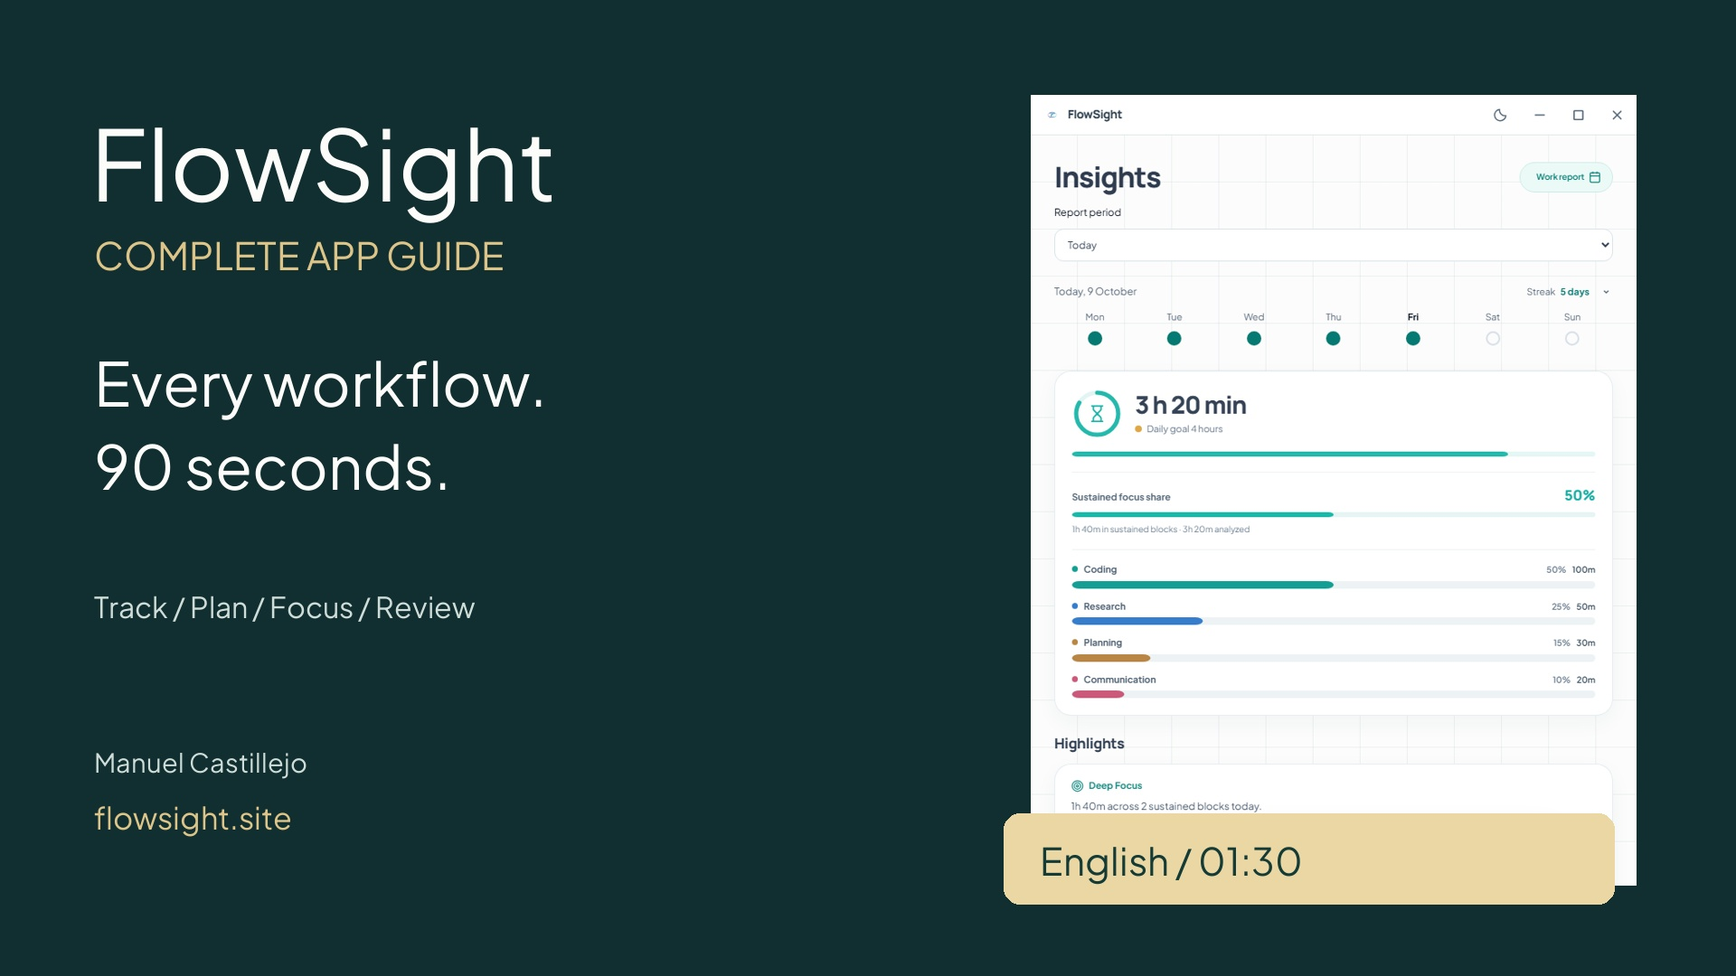
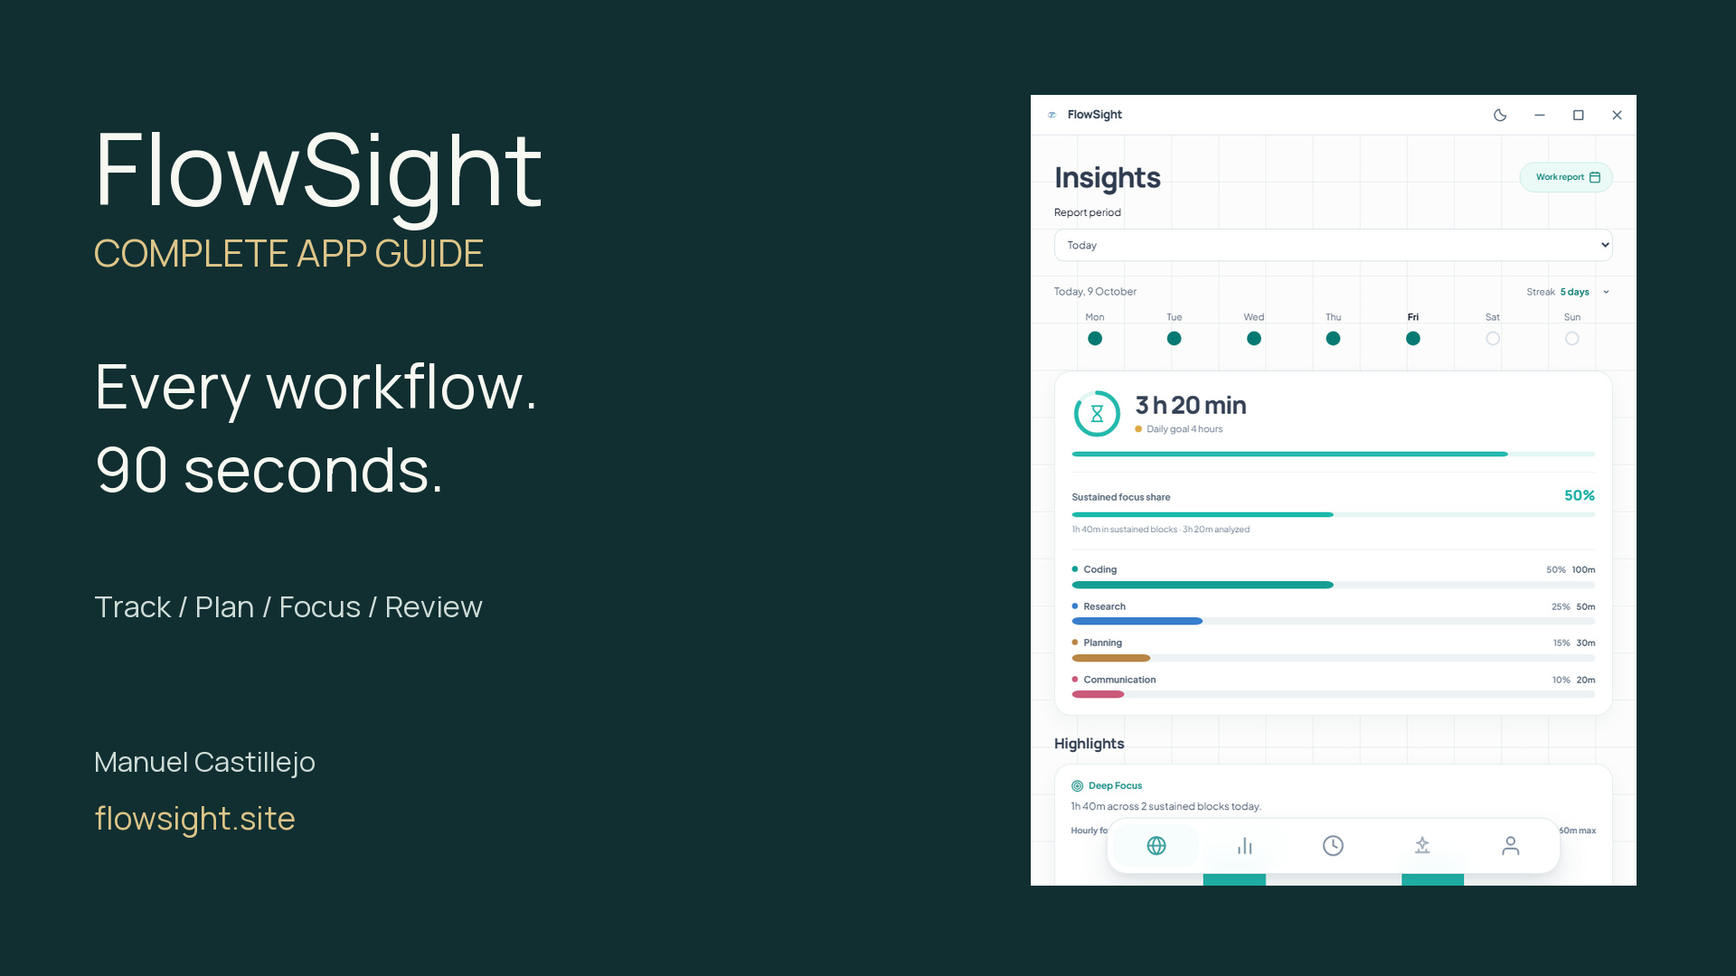
Remove language and duration badge from the guide thumbnail

diff --git a/app-guide/index.html b/app-guide/index.html
@@ -1,1 +1,1 @@
-<!doctype html><html lang="en"><head><meta charset="utf-8"><meta name="viewport" content="width=device-width,initial-scale=1"><title>FlowSight Complete App Guide in 90 Seconds | Manuel Castillejo</title><meta name="description" content="Watch the English FlowSight app guide by Manuel Castillejo: Clock, Pomodoro, local AI planning, Total Focus, Insights, reports, Coach, MCP, privacy and friend leagues."><meta name="author" content="Manuel Castillejo"><meta name="robots" content="index,follow,max-image-preview:large,max-video-preview:-1"><link rel="canonical" href="https://mancasvel.github.io/flowsight-guides/app-guide/"><link rel="stylesheet" href="../assets/style.css"><link rel="icon" href="../assets/icon.png"><meta property="og:type" content="video.other"><meta property="og:title" content="FlowSight Complete App Guide in 90 Seconds"><meta property="og:description" content="Watch the English FlowSight app guide by Manuel Castillejo: Clock, Pomodoro, local AI planning, Total Focus, Insights, reports, Coach, MCP, privacy and friend leagues."><meta property="og:url" content="https://mancasvel.github.io/flowsight-guides/app-guide/"><meta property="og:image" content="https://mancasvel.github.io/flowsight-guides/assets/complete-guide/thumbnail.jpg"><meta name="twitter:card" content="summary_large_image"><meta name="twitter:site" content="@flowsight_ai"><script type="application/ld+json">{"@context":"https://schema.org","@graph":[{"@type":"WebPage","@id":"https://mancasvel.github.io/flowsight-guides/app-guide/#page","url":"https://mancasvel.github.io/flowsight-guides/app-guide/","name":"FlowSight Complete App Guide in 90 Seconds","description":"Watch the English FlowSight app guide by Manuel Castillejo: Clock, Pomodoro, local AI planning, Total Focus, Insights, reports, Coach, MCP, privacy and friend leagues.","inLanguage":"en","mainEntity":{"@id":"https://mancasvel.github.io/flowsight-guides/app-guide/#video"},"author":{"@type":"Person","name":"Manuel Castillejo","url":"https://flowsight.site/manuel-castillejo"}},{"@type":"VideoObject","@id":"https://mancasvel.github.io/flowsight-guides/app-guide/#video","name":"FlowSight Complete App Guide in 90 Seconds","description":"Watch the English FlowSight app guide by Manuel Castillejo: Clock, Pomodoro, local AI planning, Total Focus, Insights, reports, Coach, MCP, privacy and friend leagues.","thumbnailUrl":"https://mancasvel.github.io/flowsight-guides/assets/complete-guide/thumbnail.jpg","uploadDate":"2026-10-11T14:15:00Z","duration":"PT1M30S","contentUrl":"https://mancasvel.github.io/flowsight-guides/assets/complete-guide/FlowSight-Complete-Guide-EN.mp4","inLanguage":"en","creator":{"@type":"Person","name":"Manuel Castillejo","url":"https://flowsight.site/manuel-castillejo"},"publisher":{"@type":"Organization","name":"FlowSight","url":"https://flowsight.site","sameAs":["https://x.com/flowsight_ai"]},"transcript":"FlowSight, by Manuel Castillejo. Your app in ninety seconds. Name a task, set your goal, and track time. Choose normal timing or Pomodoro, then adjust work and breaks. Describe tasks and available time. Local AI proposes blocks. Adjust your plan, then confirm before adding it. Pair the extension for Total Focus. Choose blocked sites, exceptions and duration, with optional notification quieting. Review recorded time, categories, your timeline, focus and browsing patterns. Local analysis adds context; you decide what it means. Review work reports and export PDFs. Schedule weekly saves, record decisions, and set a date to review them. Optional Cloud adds Coach, selected team summaries and Google or Microsoft calendars. Check permissions and your plan. Link Jira or Linear with an eligible plan. Configure calendars for recaps. Notion publishing is currently unavailable. Manage tasks, local calendar blocks, drafts, browsing and memory. Confirm changes; connect AI through read-only MCP. Control sync, AI, analytics, exclusions and retention. Export or erase data. External AI gets reports you request. Join private leagues for focus points. Work details stay private. Adjust startup, tray, language, theme and updates. Explore FlowSight at flowsight dot site. Built by Manuel Castillejo."}]}</script><style>main{max-width:1120px}.video-player{display:block;width:100%;aspect-ratio:16/9;background:#112e31;border-radius:16px;margin:30px 0}.transcript{max-width:760px}.chapters{display:grid;grid-template-columns:1fr 1fr;gap:8px 24px;padding-left:24px}.chapters li{margin:4px 0}@media(max-width:620px){.chapters{grid-template-columns:1fr}}</style></head><body><a class="skip" href="#main">Skip to content</a><header><nav aria-label="Main navigation"><a class="brand" href="https://mancasvel.github.io/flowsight-guides/">FlowSight Guides</a><div class="links"><a href="https://flowsight.site">Official app</a><a href="https://mancasvel.github.io/flowsight-guides/about/">About these resources</a><a href="https://x.com/flowsight_ai">FlowSight on X</a></div></nav></header><main id="main"><h1>FlowSight Complete App Guide in 90 Seconds</h1><p class="lead">Track, plan, focus and review. Watch this English overview of FlowSight, created by Manuel Castillejo, then use the chapters below to find the workflow you need.</p><video class="video-player" controls playsinline preload="metadata" poster="../assets/complete-guide/thumbnail.jpg" aria-label="FlowSight complete guide in English"><source src="../assets/complete-guide/FlowSight-Complete-Guide-EN.mp4?v=17d537e84be9" type="video/mp4"><track kind="captions" src="../assets/complete-guide/captions.vtt?v=17d537e84be9" srclang="en" label="English"></video><p class="meta">1 minute 30 seconds · English narration and captions · FlowSight 6.1.0 interface</p><p><a class="download" href="https://flowsight.site/?utm_source=flowsight_guides&utm_medium=video&utm_campaign=complete_guide">Explore FlowSight</a></p><p><a href="../assets/complete-guide/FlowSight-Complete-Guide-EN.mp4" download>Download the video</a> · <a href="../assets/complete-guide/FlowSight-Complete-Guide-EN.srt" download>Download English subtitles</a></p><nav class="toc" aria-label="Video chapters"><h2 style="margin-top:0">Find a feature</h2><ul class="chapters"><li><a href="#clock">0:05 Start with one task</a></li><li><a href="#plan">0:13 Turn intention into a plan</a></li><li><a href="#focus">0:21 Protect a focus block</a></li><li><a href="#insights">0:29 Understand your day</a></li><li><a href="#reports">0:37 Make a useful work report</a></li><li><a href="#cloud">0:45 Connect when it helps</a></li><li><a href="#integrations">0:53 Bring work into your tools</a></li><li><a href="#assistant">1:01 Choose how your AI acts</a></li><li><a href="#privacy">1:09 Keep control of your data</a></li><li><a href="#online">1:17 Focus with friends</a></li></ul></nav><div class="transcript"><section id="clock"><h2>0:05 — Start with one task</h2><p>Name a task, set your goal, and track time. Choose normal timing or Pomodoro, then adjust work and breaks.</p><ul><li>Start, pause or stop tracking</li><li>Choose normal time or Pomodoro</li><li>Set work and break intervals</li></ul></section><section id="plan"><h2>0:13 — Turn intention into a plan</h2><p>Describe tasks and available time. Local AI proposes blocks. Adjust your plan, then confirm before adding it.</p><ul><li>Describe tasks and available time</li><li>Review and adjust the proposal</li><li>Confirm before blocks are added</li></ul></section><section id="focus"><h2>0:21 — Protect a focus block</h2><p>Pair the extension for Total Focus. Choose blocked sites, exceptions and duration, with optional notification quieting.</p><ul><li>Choose blocked sites and exceptions</li><li>Set the session duration</li><li>Optional notification quieting</li></ul></section><section id="insights"><h2>0:29 — Understand your day</h2><p>Review recorded time, categories, your timeline, focus and browsing patterns. Local analysis adds context; you decide what it means.</p><ul><li>Time, categories and activity timeline</li><li>Sustained focus and browsing patterns</li><li>Review context before conclusions</li></ul></section><section id="reports"><h2>0:37 — Make a useful work report</h2><p>Review work reports and export PDFs. Schedule weekly saves, record decisions, and set a date to review them.</p><ul><li>Generate and review a work report</li><li>Export a PDF or schedule weekly saves</li><li>Save decisions and review dates</li></ul></section><section id="cloud"><h2>0:45 — Connect when it helps</h2><p>Optional Cloud adds Coach, selected team summaries and Google or Microsoft calendars. Check permissions and your plan.</p><ul><li>Coach conversations</li><li>Selected team summaries</li><li>Google and Microsoft calendars</li></ul></section><section id="integrations"><h2>0:53 — Bring work into your tools</h2><p>Link Jira or Linear with an eligible plan. Configure calendars for recaps. Notion publishing is currently unavailable.</p><ul><li>Jira and Linear task linking</li><li>Calendar recaps need a configured connection</li><li>Notion publishing: unavailable in 6.1.0</li></ul></section><section id="assistant"><h2>1:01 — Choose how your AI acts</h2><p>Manage tasks, local calendar blocks, drafts, browsing and memory. Confirm changes; connect AI through read-only MCP.</p><ul><li>Tasks, local calendar blocks and drafts</li><li>Browser tools, memory and confirmation</li><li>Connect a compatible AI through MCP</li></ul></section><section id="privacy"><h2>1:09 — Keep control of your data</h2><p>Control sync, AI, analytics, exclusions and retention. Export or erase data. External AI gets reports you request.</p><ul><li>Separate sync, cloud AI and analytics</li><li>Exclude apps and choose retention</li><li>Export or erase your data</li></ul></section><section id="online"><h2>1:17 — Focus with friends</h2><p>Join private leagues for focus points. Work details stay private. Adjust startup, tray, language, theme and updates.</p><ul><li>Create or join a private group</li><li>Weekly points from eligible focus</li><li>Startup, tray, language, theme and updates</li></ul></section><section><h2>Version and demonstration notes</h2><p>This is a feature overview of the actual FlowSight 6.1.0 renderer using fictional demonstration data and simulated desktop responses. Coach dialogue is an example, not a live model response. Narration is synthesized locally in English.</p><p>Cloud features and integrations require an eligible plan, consent and service configuration. Calendar connections are not configured in the captured build. Notion publishing is unavailable in this release. Automatic message replies are a future feature. Optional calendar recaps may be seen by event guests, and external AI clients can receive requested report data through MCP.</p><p>For detailed setup, current availability and plan terms, use <a href="https://flowsight.site/documentation">FlowSight documentation</a>. A 90-second overview introduces each feature area; it does not replace step-by-step setup instructions.</p><p>Music: FlowSight Quiet Hours, an original chill instrumental composed locally for this guide. The English narration uses a locally generated neural synthetic voice.</p></section><section><h2>Continue with a practical workflow</h2><ul><li><a href="../first-week-flow-review/">Plan your first-week FlowSight trial</a></li><li><a href="https://flowsight.site/blog/what-is-flowsight">What is FlowSight?</a></li><li><a href="https://mancasvel.github.io/flowsight-work-templates/">Free work templates</a></li></ul></section></div></main><footer><p>Published by <a href="https://flowsight.site/manuel-castillejo">Manuel Castillejo</a>, creator of <a href="https://flowsight.site">FlowSight</a>. These resources belong to the same project.</p><p><a href="https://x.com/flowsight_ai">@flowsight_ai</a> · <a href="https://www.youtube.com/@Manuel-castillejo">YouTube</a> · <a href="https://mancasvel.github.io/flowsight-guides/about/">Sources and ownership</a></p></footer></body></html>
+<!doctype html><html lang="en"><head><meta charset="utf-8"><meta name="viewport" content="width=device-width,initial-scale=1"><title>FlowSight Complete App Guide in 90 Seconds | Manuel Castillejo</title><meta name="description" content="Watch the English FlowSight app guide by Manuel Castillejo: Clock, Pomodoro, local AI planning, Total Focus, Insights, reports, Coach, MCP, privacy and friend leagues."><meta name="author" content="Manuel Castillejo"><meta name="robots" content="index,follow,max-image-preview:large,max-video-preview:-1"><link rel="canonical" href="https://mancasvel.github.io/flowsight-guides/app-guide/"><link rel="stylesheet" href="../assets/style.css"><link rel="icon" href="../assets/icon.png"><meta property="og:type" content="video.other"><meta property="og:title" content="FlowSight Complete App Guide in 90 Seconds"><meta property="og:description" content="Watch the English FlowSight app guide by Manuel Castillejo: Clock, Pomodoro, local AI planning, Total Focus, Insights, reports, Coach, MCP, privacy and friend leagues."><meta property="og:url" content="https://mancasvel.github.io/flowsight-guides/app-guide/"><meta property="og:image" content="https://mancasvel.github.io/flowsight-guides/assets/complete-guide/thumbnail.jpg?v=6a95ffe9399d"><meta name="twitter:card" content="summary_large_image"><meta name="twitter:site" content="@flowsight_ai"><script type="application/ld+json">{"@context":"https://schema.org","@graph":[{"@type":"WebPage","@id":"https://mancasvel.github.io/flowsight-guides/app-guide/#page","url":"https://mancasvel.github.io/flowsight-guides/app-guide/","name":"FlowSight Complete App Guide in 90 Seconds","description":"Watch the English FlowSight app guide by Manuel Castillejo: Clock, Pomodoro, local AI planning, Total Focus, Insights, reports, Coach, MCP, privacy and friend leagues.","inLanguage":"en","mainEntity":{"@id":"https://mancasvel.github.io/flowsight-guides/app-guide/#video"},"author":{"@type":"Person","name":"Manuel Castillejo","url":"https://flowsight.site/manuel-castillejo"}},{"@type":"VideoObject","@id":"https://mancasvel.github.io/flowsight-guides/app-guide/#video","name":"FlowSight Complete App Guide in 90 Seconds","description":"Watch the English FlowSight app guide by Manuel Castillejo: Clock, Pomodoro, local AI planning, Total Focus, Insights, reports, Coach, MCP, privacy and friend leagues.","thumbnailUrl":"https://mancasvel.github.io/flowsight-guides/assets/complete-guide/thumbnail.jpg?v=6a95ffe9399d","uploadDate":"2026-10-11T14:15:00Z","duration":"PT1M30S","contentUrl":"https://mancasvel.github.io/flowsight-guides/assets/complete-guide/FlowSight-Complete-Guide-EN.mp4","inLanguage":"en","creator":{"@type":"Person","name":"Manuel Castillejo","url":"https://flowsight.site/manuel-castillejo"},"publisher":{"@type":"Organization","name":"FlowSight","url":"https://flowsight.site","sameAs":["https://x.com/flowsight_ai"]},"transcript":"FlowSight, by Manuel Castillejo. Your app in ninety seconds. Name a task, set your goal, and track time. Choose normal timing or Pomodoro, then adjust work and breaks. Describe tasks and available time. Local AI proposes blocks. Adjust your plan, then confirm before adding it. Pair the extension for Total Focus. Choose blocked sites, exceptions and duration, with optional notification quieting. Review recorded time, categories, your timeline, focus and browsing patterns. Local analysis adds context; you decide what it means. Review work reports and export PDFs. Schedule weekly saves, record decisions, and set a date to review them. Optional Cloud adds Coach, selected team summaries and Google or Microsoft calendars. Check permissions and your plan. Link Jira or Linear with an eligible plan. Configure calendars for recaps. Notion publishing is currently unavailable. Manage tasks, local calendar blocks, drafts, browsing and memory. Confirm changes; connect AI through read-only MCP. Control sync, AI, analytics, exclusions and retention. Export or erase data. External AI gets reports you request. Join private leagues for focus points. Work details stay private. Adjust startup, tray, language, theme and updates. Explore FlowSight at flowsight dot site. Built by Manuel Castillejo."}]}</script><style>main{max-width:1120px}.video-player{display:block;width:100%;aspect-ratio:16/9;background:#112e31;border-radius:16px;margin:30px 0}.transcript{max-width:760px}.chapters{display:grid;grid-template-columns:1fr 1fr;gap:8px 24px;padding-left:24px}.chapters li{margin:4px 0}@media(max-width:620px){.chapters{grid-template-columns:1fr}}</style></head><body><a class="skip" href="#main">Skip to content</a><header><nav aria-label="Main navigation"><a class="brand" href="https://mancasvel.github.io/flowsight-guides/">FlowSight Guides</a><div class="links"><a href="https://flowsight.site">Official app</a><a href="https://mancasvel.github.io/flowsight-guides/about/">About these resources</a><a href="https://x.com/flowsight_ai">FlowSight on X</a></div></nav></header><main id="main"><h1>FlowSight Complete App Guide in 90 Seconds</h1><p class="lead">Track, plan, focus and review. Watch this English overview of FlowSight, created by Manuel Castillejo, then use the chapters below to find the workflow you need.</p><video class="video-player" controls playsinline preload="metadata" poster="../assets/complete-guide/thumbnail.jpg?v=6a95ffe9399d" aria-label="FlowSight complete guide in English"><source src="../assets/complete-guide/FlowSight-Complete-Guide-EN.mp4?v=17d537e84be9" type="video/mp4"><track kind="captions" src="../assets/complete-guide/captions.vtt?v=17d537e84be9" srclang="en" label="English"></video><p class="meta">1 minute 30 seconds · English narration and captions · FlowSight 6.1.0 interface</p><p><a class="download" href="https://flowsight.site/?utm_source=flowsight_guides&utm_medium=video&utm_campaign=complete_guide">Explore FlowSight</a></p><p><a href="../assets/complete-guide/FlowSight-Complete-Guide-EN.mp4" download>Download the video</a> · <a href="../assets/complete-guide/FlowSight-Complete-Guide-EN.srt" download>Download English subtitles</a></p><nav class="toc" aria-label="Video chapters"><h2 style="margin-top:0">Find a feature</h2><ul class="chapters"><li><a href="#clock">0:05 Start with one task</a></li><li><a href="#plan">0:13 Turn intention into a plan</a></li><li><a href="#focus">0:21 Protect a focus block</a></li><li><a href="#insights">0:29 Understand your day</a></li><li><a href="#reports">0:37 Make a useful work report</a></li><li><a href="#cloud">0:45 Connect when it helps</a></li><li><a href="#integrations">0:53 Bring work into your tools</a></li><li><a href="#assistant">1:01 Choose how your AI acts</a></li><li><a href="#privacy">1:09 Keep control of your data</a></li><li><a href="#online">1:17 Focus with friends</a></li></ul></nav><div class="transcript"><section id="clock"><h2>0:05 — Start with one task</h2><p>Name a task, set your goal, and track time. Choose normal timing or Pomodoro, then adjust work and breaks.</p><ul><li>Start, pause or stop tracking</li><li>Choose normal time or Pomodoro</li><li>Set work and break intervals</li></ul></section><section id="plan"><h2>0:13 — Turn intention into a plan</h2><p>Describe tasks and available time. Local AI proposes blocks. Adjust your plan, then confirm before adding it.</p><ul><li>Describe tasks and available time</li><li>Review and adjust the proposal</li><li>Confirm before blocks are added</li></ul></section><section id="focus"><h2>0:21 — Protect a focus block</h2><p>Pair the extension for Total Focus. Choose blocked sites, exceptions and duration, with optional notification quieting.</p><ul><li>Choose blocked sites and exceptions</li><li>Set the session duration</li><li>Optional notification quieting</li></ul></section><section id="insights"><h2>0:29 — Understand your day</h2><p>Review recorded time, categories, your timeline, focus and browsing patterns. Local analysis adds context; you decide what it means.</p><ul><li>Time, categories and activity timeline</li><li>Sustained focus and browsing patterns</li><li>Review context before conclusions</li></ul></section><section id="reports"><h2>0:37 — Make a useful work report</h2><p>Review work reports and export PDFs. Schedule weekly saves, record decisions, and set a date to review them.</p><ul><li>Generate and review a work report</li><li>Export a PDF or schedule weekly saves</li><li>Save decisions and review dates</li></ul></section><section id="cloud"><h2>0:45 — Connect when it helps</h2><p>Optional Cloud adds Coach, selected team summaries and Google or Microsoft calendars. Check permissions and your plan.</p><ul><li>Coach conversations</li><li>Selected team summaries</li><li>Google and Microsoft calendars</li></ul></section><section id="integrations"><h2>0:53 — Bring work into your tools</h2><p>Link Jira or Linear with an eligible plan. Configure calendars for recaps. Notion publishing is currently unavailable.</p><ul><li>Jira and Linear task linking</li><li>Calendar recaps need a configured connection</li><li>Notion publishing: unavailable in 6.1.0</li></ul></section><section id="assistant"><h2>1:01 — Choose how your AI acts</h2><p>Manage tasks, local calendar blocks, drafts, browsing and memory. Confirm changes; connect AI through read-only MCP.</p><ul><li>Tasks, local calendar blocks and drafts</li><li>Browser tools, memory and confirmation</li><li>Connect a compatible AI through MCP</li></ul></section><section id="privacy"><h2>1:09 — Keep control of your data</h2><p>Control sync, AI, analytics, exclusions and retention. Export or erase data. External AI gets reports you request.</p><ul><li>Separate sync, cloud AI and analytics</li><li>Exclude apps and choose retention</li><li>Export or erase your data</li></ul></section><section id="online"><h2>1:17 — Focus with friends</h2><p>Join private leagues for focus points. Work details stay private. Adjust startup, tray, language, theme and updates.</p><ul><li>Create or join a private group</li><li>Weekly points from eligible focus</li><li>Startup, tray, language, theme and updates</li></ul></section><section><h2>Version and demonstration notes</h2><p>This is a feature overview of the actual FlowSight 6.1.0 renderer using fictional demonstration data and simulated desktop responses. Coach dialogue is an example, not a live model response. Narration is synthesized locally in English.</p><p>Cloud features and integrations require an eligible plan, consent and service configuration. Calendar connections are not configured in the captured build. Notion publishing is unavailable in this release. Automatic message replies are a future feature. Optional calendar recaps may be seen by event guests, and external AI clients can receive requested report data through MCP.</p><p>For detailed setup, current availability and plan terms, use <a href="https://flowsight.site/documentation">FlowSight documentation</a>. A 90-second overview introduces each feature area; it does not replace step-by-step setup instructions.</p><p>Music: FlowSight Quiet Hours, an original chill instrumental composed locally for this guide. The English narration uses a locally generated neural synthetic voice.</p></section><section><h2>Continue with a practical workflow</h2><ul><li><a href="../first-week-flow-review/">Plan your first-week FlowSight trial</a></li><li><a href="https://flowsight.site/blog/what-is-flowsight">What is FlowSight?</a></li><li><a href="https://mancasvel.github.io/flowsight-work-templates/">Free work templates</a></li></ul></section></div></main><footer><p>Published by <a href="https://flowsight.site/manuel-castillejo">Manuel Castillejo</a>, creator of <a href="https://flowsight.site">FlowSight</a>. These resources belong to the same project.</p><p><a href="https://x.com/flowsight_ai">@flowsight_ai</a> · <a href="https://www.youtube.com/@Manuel-castillejo">YouTube</a> · <a href="https://mancasvel.github.io/flowsight-guides/about/">Sources and ownership</a></p></footer></body></html>
